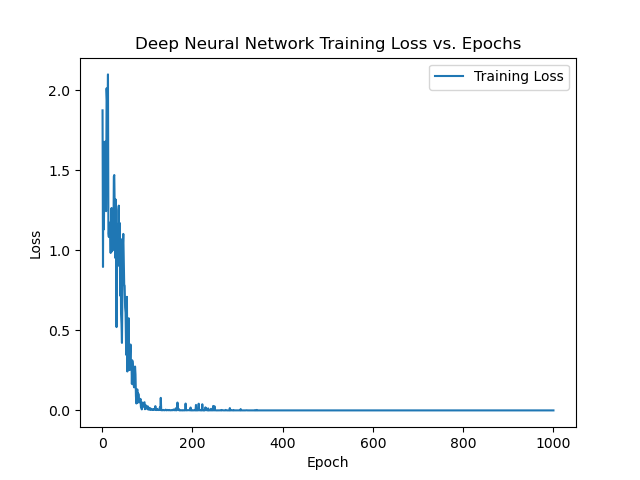
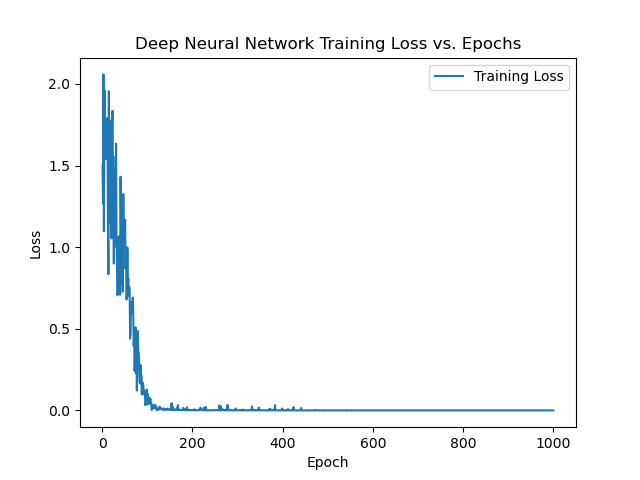
updating figs for task1.2 and code

diff --git a/task1.py b/task1.py
@@ -60,14 +60,14 @@ class MLP(nn.Module):
             nn.ReLU(),
             nn.Linear(64, 64),
             nn.ReLU(),
-            nn.Linear(64, 1)
+            nn.Linear(64, 1))
 class DeepCorrectorMLP(nn.Module):
     def __init__(self, num_hidden_nodes):
         super(DeepCorrectorMLP, self).__init__()
         self.layers = nn.Sequential(
-            nn.Linear(4, num_hidden_nodes),
+            nn.Linear(4, 64),
             nn.ReLU(),
-            nn.Linear(num_hidden_nodes, num_hidden_nodes),
+            nn.Linear(64, num_hidden_nodes),
             nn.ReLU(),
             nn.Linear(num_hidden_nodes, num_hidden_nodes),
             nn.ReLU(),
@@ -77,64 +77,84 @@ class DeepCorrectorMLP(nn.Module):
     def forward(self, x):
         return self.layers(x)
 
-# Model, Loss, Optimizer
-model = MLP()
-criterion = nn.MSELoss()
-optimizer = optim.Adam(model.parameters(), lr=0.00001)
+num_hidden_nodes = 32
+while num_hidden_nodes < 129:
+    # Model, Loss, Optimizer
+    model = DeepCorrectorMLP(num_hidden_nodes)
+    criterion = nn.MSELoss()
+    optimizer = optim.Adam(model.parameters(), lr=0.00001)
+    
+    # Training Loop
+    epochs = 1000
+    train_losses = []
+    
+    
+    for epoch in range(epochs):
+        epoch_loss = 0
+        for data, target in train_loader:
+            optimizer.zero_grad()
+            output = model(data)
+            loss = criterion(output, target)
+            loss.backward()
+            optimizer.step()
+    
+        epoch_loss += loss.item()
+    
+        train_losses.append(epoch_loss / len(train_loader))
+        print(f'Epoch {epoch+1}/{epochs}, Loss: {train_losses[-1]:.6f}')
+    
+    # Testing Phase: Simulate trajectory tracking
+    q_test = 0
+    dot_q_test = 0
+    q_real = []
+    q_real_corrected = []
+    
+    
+    # integration with only PD Control
+    for i in range(len(t)):
+        tau = k_p * (q_target[i] - q_test) + k_d * (dot_q_target[i] - dot_q_test)
+        ddot_q_real = (tau - b * dot_q_test) / m
+        dot_q_test += ddot_q_real * dt
+        q_test += dot_q_test * dt
+        q_real.append(q_test)
+    
+    q_test = 0
+    dot_q_test = 0
+    for i in range(len(t)):
+        # Apply MLP correction
+        tau = k_p * (q_target[i] - q_test) + k_d * (dot_q_target[i] - dot_q_test)
+        inputs = torch.tensor([q_test, dot_q_test, q_target[i], dot_q_target[i]], dtype=torch.float32)
+        correction = model(inputs.unsqueeze(0)).item()
+        ddot_q_corrected =(tau - b * dot_q_test + correction) / m
+        dot_q_test += ddot_q_corrected * dt
+        q_test += dot_q_test * dt
+        q_real_corrected.append(q_test)
 
-# Training Loop
-epochs = 1000
-train_losses = []
-
-
-for epoch in range(epochs):
-    epoch_loss = 0
-    for data, target in train_loader:
-        optimizer.zero_grad()
-        output = model(data)
-        loss = criterion(output, target)
-        loss.backward()
-        optimizer.step()
-
-    epoch_loss += loss.item()
-
-    train_losses.append(epoch_loss / len(train_loader))
-    print(f'Epoch {epoch+1}/{epochs}, Loss: {train_losses[-1]:.6f}')
-
-# Testing Phase: Simulate trajectory tracking
-q_test = 0
-dot_q_test = 0
-q_real = []
-q_real_corrected = []
-
-
-# integration with only PD Control
-for i in range(len(t)):
-    tau = k_p * (q_target[i] - q_test) + k_d * (dot_q_target[i] - dot_q_test)
-    ddot_q_real = (tau - b * dot_q_test) / m
-    dot_q_test += ddot_q_real * dt
-    q_test += dot_q_test * dt
-    q_real.append(q_test)
-
-q_test = 0
-dot_q_test = 0
-for i in range(len(t)):
-    # Apply MLP correction
-    tau = k_p * (q_target[i] - q_test) + k_d * (dot_q_target[i] - dot_q_test)
-    inputs = torch.tensor([q_test, dot_q_test, q_target[i], dot_q_target[i]], dtype=torch.float32)
-    correction = model(inputs.unsqueeze(0)).item()
-    ddot_q_corrected =(tau - b * dot_q_test + correction) / m
-    dot_q_test += ddot_q_corrected * dt
-    q_test += dot_q_test * dt
-    q_real_corrected.append(q_test)
-
-# Plot results
-plt.figure(figsize=(12, 6))
-plt.plot(t, q_target, 'r-', label='Target')
-plt.plot(t, q_real, 'b--', label='PD Only')
-plt.plot(t, q_real_corrected, 'g:', label='PD + MLP Correction')
-plt.title('Trajectory Tracking with and without MLP Correction')
-plt.xlabel('Time [s]')
-plt.ylabel('Position')
-plt.legend()
-plt.show()
+    plt.plot(np.linspace(1, epochs, epochs), np.log(train_losses), label='Log Training Loss')
+    plt.xlabel('Epoch')
+    plt.ylabel('Log(Loss)')
+    plt.title('Deep Neural Network Logarithmic Training Loss vs. Epochs')
+    plt.legend()
+    plt.savefig(f'Figures/task1.2/{num_hidden_nodes}-nodes-log-loss')
+    plt.close()
+    
+    plt.plot(np.linspace(1, epochs, epochs), train_losses, label='Training Loss')
+    plt.xlabel('Epoch')
+    plt.ylabel('Loss')
+    plt.title('Deep Neural Network Training Loss vs. Epochs')
+    plt.legend()
+    plt.savefig(f'Figures/task1.2/{num_hidden_nodes}-nodes-loss')
+    plt.close()
+    
+    # Plot results
+    plt.figure(figsize=(12, 6))
+    plt.plot(t, q_target, 'r-', label='Target')
+    plt.plot(t, q_real, 'b--', label='PD Only')
+    plt.plot(t, q_real_corrected, 'g:', label='PD + MLP Correction')
+    plt.title(f'Deep Neural Network Trajectory Tracking with and without MLP Correction - {num_hidden_nodes} Nodes')
+    plt.xlabel('Time [s]')
+    plt.ylabel('Position')
+    plt.legend()
+    plt.savefig(f'Figures/task1.2/{num_hidden_nodes}')
+    plt.close()
+    num_hidden_nodes += 32
